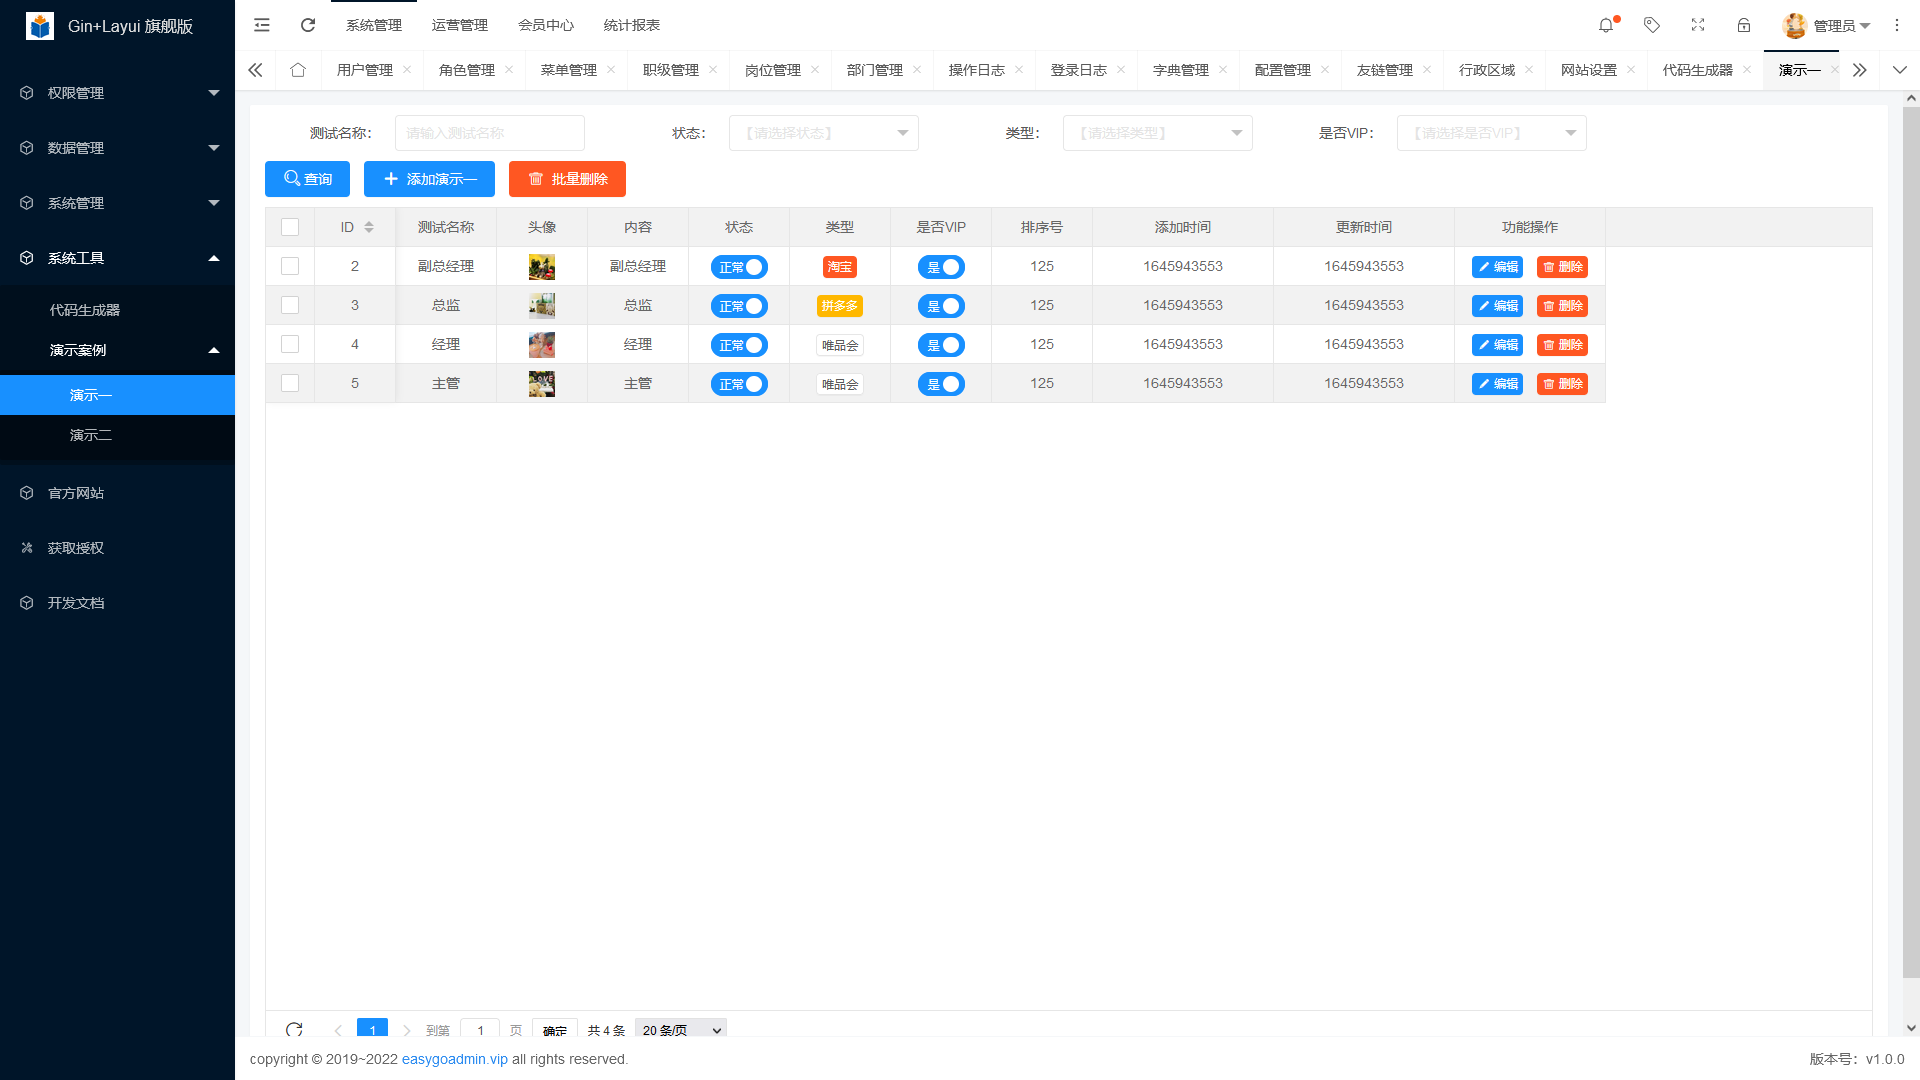
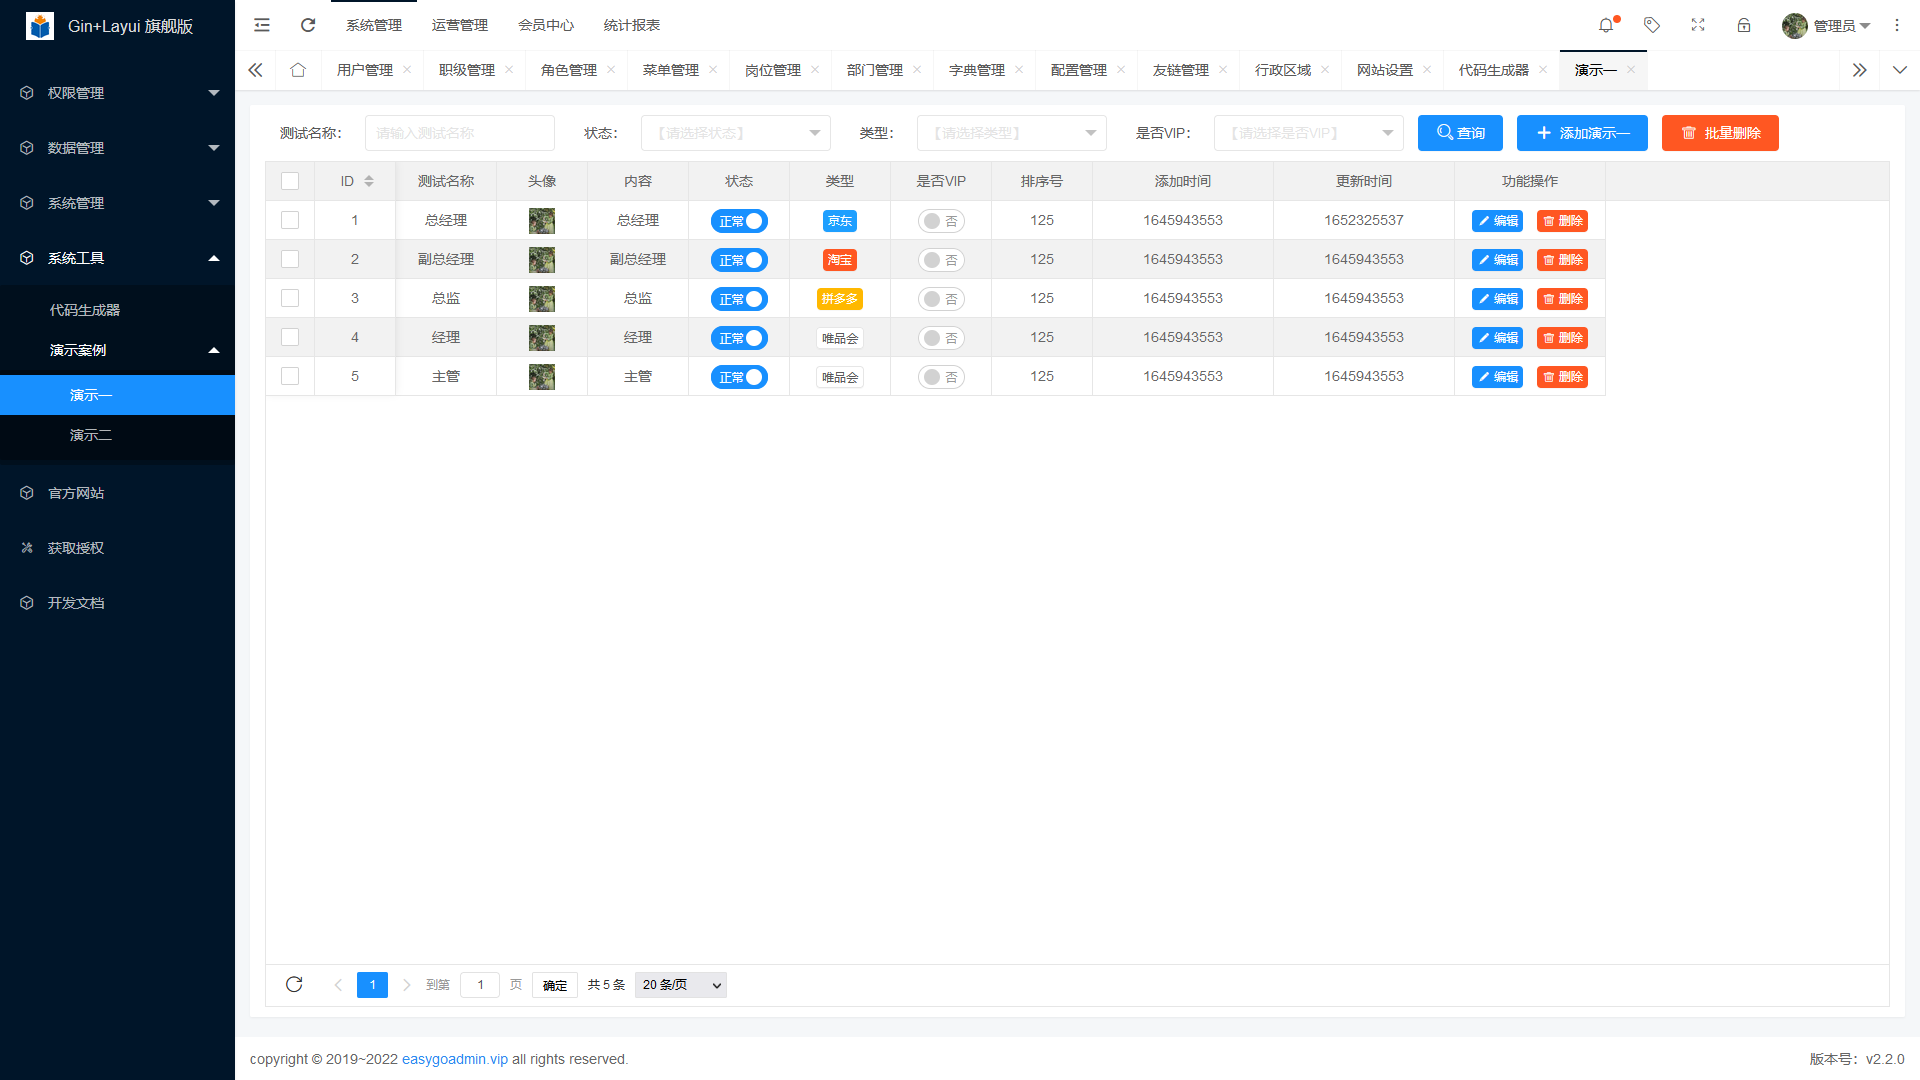
更新权限架构

diff --git a/public/resource/assets/libs/templets/tpl-message.html b/public/resource/assets/libs/templets/tpl-message.html
@@ -43,26 +43,26 @@
             <div class="layui-tab-item">
                 <div class="message-list">
                     <a class="message-list-item" href="javascript:;">
-                        <img class="message-item-icon" src="assets/images/head.jpg" alt="">
+                        <img class="message-item-icon" src="/resource/assets/images/logo.png" alt="">
                         <div class="message-item-right">
-                            <h2 class="message-item-title">xx评论了你</h2>
-                            <p class="message-item-text">哈哈哈哈哈哈</p>
+                            <h2 class="message-item-title">@半城风雨</h2>
+                            <p class="message-item-text">今天你来过了吗？</p>
                             <p class="message-item-text">10个月前</p>
                         </div>
                     </a>
                     <a class="message-list-item" href="javascript:;">
-                        <img class="message-item-icon" src="assets/images/head.jpg" alt="">
+                        <img class="message-item-icon" src="/resource/assets/images/logo.png" alt="">
                         <div class="message-item-right">
-                            <h2 class="message-item-title">xx评论了你</h2>
-                            <p class="message-item-text">哈哈哈哈哈哈</p>
+                            <h2 class="message-item-title">@半城风雨</h2>
+                            <p class="message-item-text">今天你来过了吗？</p>
                             <p class="message-item-text">10个月前</p>
                         </div>
                     </a>
                     <a class="message-list-item" href="javascript:;">
-                        <img class="message-item-icon" src="assets/images/head.jpg" alt="">
+                        <img class="message-item-icon" src="/resource/assets/images/logo.png" alt="">
                         <div class="message-item-right">
-                            <h2 class="message-item-title">xx评论了你</h2>
-                            <p class="message-item-text">哈哈哈哈哈哈</p>
+                            <h2 class="message-item-title">@半城风雨</h2>
+                            <p class="message-item-text">今天你来过了吗？</p>
                             <p class="message-item-text">10个月前</p>
                         </div>
                     </a>

diff --git a/public/resource/module/easygoadmin_member.js b/public/resource/module/easygoadmin_member.js
@@ -44,10 +44,10 @@ layui.use(['func', 'form'], function () {
                         cls = "layui-btn-normal";
                     } else if (d.gender == 2) {
                         // 女
-                        cls = "layui-btn-danger";
+                        cls = "layui-btn-warm";
                     } else if (d.gender == 3) {
                         // 保密
-                        cls = "layui-btn-warm";
+                        cls = "layui-btn-danger";
                     }
                     return '<span class="layui-btn ' + cls + ' layui-btn-xs">' + d.genderName + '</span>';
                 }
@@ -73,10 +73,10 @@ layui.use(['func', 'form'], function () {
                         cls = "layui-btn-normal";
                     } else if (d.device == 2) {
                         // 安卓
-                        cls = "layui-btn-danger";
+                        cls = "layui-btn-warm";
                     } else if (d.device == 3) {
                         // WAP站
-                        cls = "layui-btn-warm";
+                        cls = "layui-btn-danger";
                     } else if (d.device == 4) {
                         // PC站
                         cls = "layui-btn-primary";
@@ -94,7 +94,7 @@ layui.use(['func', 'form'], function () {
                         cls = "layui-btn-normal";
                     } else if (d.source == 2) {
                         // 马甲会员
-                        cls = "layui-btn-danger";
+                        cls = "layui-btn-primary";
                     }
                     return '<span class="layui-btn ' + cls + ' layui-btn-xs">'+d.sourceName+'</span>';
                 }}

diff --git a/public/resource/module/easygoadmin_ad.js b/public/resource/module/easygoadmin_ad.js
@@ -72,8 +72,8 @@ layui.use(['func'], function () {
             , {field: 'size', width: 150, title: '广告尺寸(宽x高)', align: 'center', templet: function (d) {
                     return d.width + " x " + d.height
                 }}
-            , {field: 'startTime', width: 180, title: '开始时间', align: 'center'}
-            , {field: 'endTime', width: 180, title: '结束时间', align: 'center'}
+            , {field: 'startTime', width: 180, title: '开始时间', align: 'center', templet:"<div>{{layui.util.toDateString(d.startTime*1000, 'yyyy-MM-dd HH:mm:ss')}}</div>"}
+            , {field: 'endTime', width: 180, title: '结束时间', align: 'center', templet:"<div>{{layui.util.toDateString(d.endTime*1000, 'yyyy-MM-dd HH:mm:ss')}}</div>"}
             , {field: 'viewNum', width: 100, title: '点击率', align: 'center'}
             , {field: 'sort', width: 100, title: '排序', align: 'center'}
             , {field: 'create_time', width: 180, title: '添加时间', align: 'center', templet:"<div>{{layui.util.toDateString(d.create_time*1000, 'yyyy-MM-dd HH:mm:ss')}}</div>"}

diff --git a/public/resource/assets/libs/templets/tpl-lock-screen.html b/public/resource/assets/libs/templets/tpl-lock-screen.html
@@ -109,7 +109,7 @@
 
 <style>
     .lock-screen-wrapper {
-        color: #ffffff;
+        color: #39B959;
         width: 100%;
         height: 100%;
         box-sizing: border-box;
@@ -176,7 +176,7 @@
         line-height: 1;
         font-size: 28px;
         padding-top: 18px;
-        border: 2px solid #ffffff;
+        border: 2px solid #39B959;
         border-radius: 50%;
         text-align: center;
         display: inline-block;
@@ -196,7 +196,7 @@
         padding: 0 5px;
         margin-right: 10px;
         border-color: #ffffff;
-        background-color: rgba(255, 255, 255, .3);
+        background-color: rgba(57, 185, 89, .7);
     }
 
     .lock-screen-form.show-psw .lock-screen-enter {

diff --git a/views/layouts/header.html b/views/layouts/header.html
@@ -4,7 +4,7 @@
     <meta http-equiv="X-UA-Compatible" content="IE=edge,chrome=1">
     <meta http-equiv="Content-Type" content="text/html; charset=utf-8" />
     <meta name="viewport" content="width=device-width, initial-scale=1, maximum-scale=1">
-    <title>{{.siteName}}</title>
+    <title>Gin+Layui【旗舰版】敏捷开发框架</title>
     <link href="/resource/assets/images/favicon.ico" rel="icon">
     <link type="text/css" rel="stylesheet" href="/resource/assets/libs/layui/css/layui.css"/>
     <link type="text/css" rel="stylesheet" href="/resource/assets/module/admin.css?v=318"/>

diff --git a/public/resource/assets/module/Cropper/croppers.js b/public/resource/assets/module/Cropper/croppers.js
@@ -98,7 +98,7 @@ layui.extend({
                         height: saveH
                     }).toBlob(function (blob) {
                         var formData = new FormData();
-                        formData.append('file', blob, 'head.jpg');
+                        formData.append('file', blob, 'logo.png');
 
                         var index = layer.msg('图片保存中，请稍候', {icon: 16, time: false, shade: 0.2});
 

diff --git a/public/resource/assets/module/croppers/croppers.js b/public/resource/assets/module/croppers/croppers.js
@@ -98,7 +98,7 @@ layui.extend({
                         height: saveH
                     }).toBlob(function (blob) {
                         var formData = new FormData();
-                        formData.append('file', blob, 'head.jpg');
+                        formData.append('file', blob, 'logo.png');
 
                         var index = layer.msg('图片保存中，请稍候', {icon: 16, time: false, shade: 0.2});
 

diff --git a/views/welcome.html b/views/welcome.html
@@ -308,7 +308,7 @@
                         <script type="text/html" ew-tpl>
                             <tr>
                                 <td>当前版本</td>
-                                <td>v2.0.0</td>
+                                <td>v2.2.0</td>
                             </tr>
                             <tr>
                                 <td>基于框架</td>

diff --git a/views/index.html b/views/index.html
@@ -115,7 +115,7 @@
     <!-- 底部 -->
     <div class="layui-footer layui-text">
         copyright © 2019~2022 <a href="http://www.easygoadmin.vip" target="_blank">easygoadmin.vip</a> all rights reserved.
-        <span class="pull-right">版本号：v2.0.0</span>
+        <span class="pull-right">版本号：v2.2.0</span>
     </div>
 </div>
 

diff --git a/app/service/ad.go b/app/service/ad.go
@@ -100,13 +100,17 @@ func (s *adService) Add(req *dto.AdAddReq, userId int) (int64, error) {
 	if utils.AppDebug() {
 		return 0, errors.New("演示环境，暂无权限操作")
 	}
+
+	// 富文本处理
+	content := utils.SaveImageContent(req.Content, req.Title, "ad")
+
 	// 实例化对象
 	var entity model.Ad
 	entity.Title = req.Title
 	entity.AdSortId = gconv.Int(req.AdSortId)
 	entity.Type = gconv.Int(req.Type)
 	entity.Description = req.Description
-	entity.Content = req.Content
+	entity.Content = content
 	entity.Url = req.Url
 	entity.Width = gconv.Int(req.Width)
 	entity.Height = gconv.Int(req.Height)
@@ -150,12 +154,15 @@ func (s *adService) Update(req *dto.AdUpdateReq, userId int) (int64, error) {
 		return 0, err
 	}
 
+	// 富文本处理
+	content := utils.SaveImageContent(req.Content, req.Title, "ad")
+
 	// 设置对象
 	entity.Title = req.Title
 	entity.AdSortId = gconv.Int(req.AdSortId)
 	entity.Type = gconv.Int(req.Type)
 	entity.Description = req.Description
-	entity.Content = req.Content
+	entity.Content = content
 	entity.Url = req.Url
 	entity.Width = gconv.Int(req.Width)
 	entity.Height = gconv.Int(req.Height)

diff --git a/app/service/notice.go b/app/service/notice.go
@@ -87,10 +87,13 @@ func (s *noticeService) Add(req *dto.NoticeAddReq, userId int) (int64, error) {
 	if utils.AppDebug() {
 		return 0, errors.New("演示环境，暂无权限操作")
 	}
+
+	// 富文本处理
+	content := utils.SaveImageContent(req.Content, req.Title, "notice")
 	// 实例化对象
 	var entity model.Notice
 	entity.Title = req.Title
-	entity.Content = req.Content
+	entity.Content = content
 	entity.IsTop = gconv.Int(req.IsTop)
 	entity.Source = gconv.Int(req.Source)
 	entity.Status = gconv.Int(req.Status)
@@ -113,9 +116,12 @@ func (s *noticeService) Update(req *dto.NoticeUpdateReq, userId int) (int64, err
 		return 0, err
 	}
 
+	// 富文本处理
+	content := utils.SaveImageContent(req.Content, req.Title, "notice")
+
 	// 设置参数
 	entity.Title = req.Title
-	entity.Content = req.Content
+	entity.Content = content
 	entity.IsTop = gconv.Int(req.IsTop)
 	entity.Source = gconv.Int(req.Source)
 	entity.Status = gconv.Int(req.Status)

diff --git a/router/router.go b/router/router.go
@@ -454,9 +454,9 @@ func LoadTemplates(templatesDir string) multitemplate.Renderer {
 			// 字典
 			dict, _ := filepath.Glob(templatesDir + "/includes/dict/*.html")
 			files = append(files, dict...)
-		} else if baseName == "config" {
+		} else if strings.Contains(baseName, "config") && !strings.Contains(baseName, "configweb") {
 			files = append(files, templatesDir+"/layouts/main.html", include)
-			// 字典
+			// 配置
 			dict, _ := filepath.Glob(templatesDir + "/includes/config/*.html")
 			files = append(files, dict...)
 		} else if strings.Contains(baseName, "user_info") {
